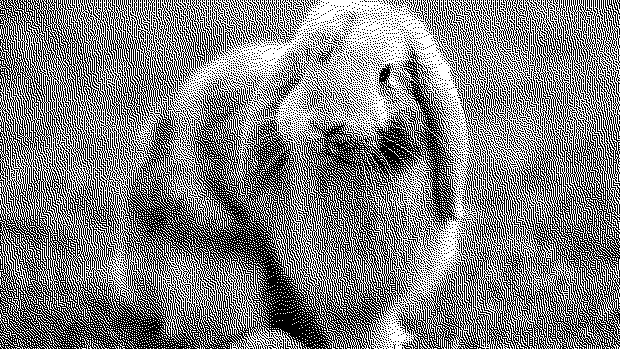
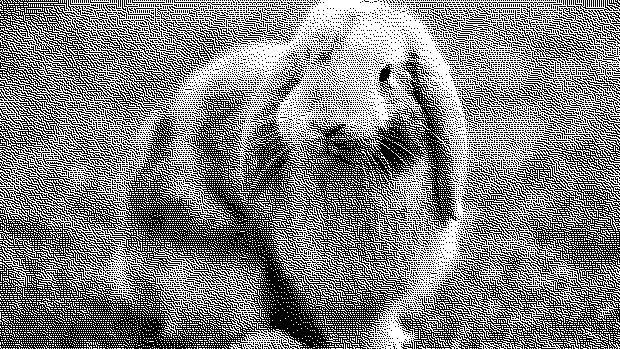
alternate lines in dithering algorithm to reduce banding

diff --git a/src/ditherer.rs b/src/ditherer.rs
@@ -21,6 +21,7 @@ impl<'a> Ditherer<'a> {
     }
 }
 
+/// The Dither trait quantizes an image to a limited color palette, storing the air and spreading it across the image.
 pub trait Dither<P> {
     fn dither(&self, img: Img<P>, quantize: impl FnMut(P) -> (P, P)) -> Img<P>;
 }
@@ -35,19 +36,25 @@ where
     /// but adds to ITSELF
     ///
     fn dither(&self, mut img: Img<P>, mut quantize: impl FnMut(P) -> (P, P)) -> super::Img<P> {
-        let width = img.width() as isize;
-        let mut spillover = vec![P::default(); img.len()];
-        for (i, p) in img.iter_mut().enumerate() {
-            let (quantized, spill) = quantize(p.clone() + spillover[i].clone());
-            *p = quantized;
+        let (width, height) = img.size();
+        let mut spillover = Img::new(vec![P::default(); img.len()], width).unwrap();
 
-            // add spillover matrices
-            for (dx, dy, mul) in self.offsets.iter().cloned() {
-                let j = i as isize + (dy * width) + dx;
+        for y in 0..height {
+            for dx in 0..width {
+                // we reverse the x-direction of the dithering every row to reduce banding
+                let x = if y % 2 == 0 { dx } else { width - dx - 1 };
+                let (quantized, spill) = quantize(img[(x, y)].clone() + spillover[(x, y)].clone());
+                img[(x, y)] = quantized;
 
-                if let Some(stored_spill) = spillover.get_mut(j as usize) {
-                    // this cast is OK, since if we go past the edges, we get zero
-                    *stored_spill = stored_spill.clone() + (spill.clone() * mul) / self.div;
+                // add spillover matrices
+                for (dx, dy, mul) in self.offsets.iter().cloned() {
+                    let xj = dx + x as isize;
+                    let yj = dy + y as isize;
+
+                    if let Some(stored_spill) = spillover.get_mut((xj as u32, yj as u32)) {
+                        // this cast is OK, since if we go past the edges, we get zero
+                        *stored_spill = stored_spill.clone() + (spill.clone() * mul) / self.div;
+                    }
                 }
             }
         }

diff --git a/src/color/cga.rs b/src/color/cga.rs
@@ -1,5 +1,6 @@
 use super::RGB;
 #[derive(Copy, Clone, PartialEq, Eq, Debug)]
+/// CGA is a 16-color palette developed by IBM and used in early computing.
 pub enum CGA {
     Black = 0,
     Blue = 1,
@@ -40,13 +41,14 @@ pub mod hex {
 }
 impl CGA {
     /// quantize a RGB triplet to the closest CGA color and error.
-    /// this is a somewhat naive/ inefficient implementation; i'm sure I can do better.
 
     pub fn quantize(RGB(r0, g0, b0): RGB<f64>) -> (RGB<f64>, RGB<f64>) {
         let mut min_abs_err = std::f64::INFINITY;
         let mut closest = RGB::default();
         let mut min_err = RGB::default();
 
+        // dev note: just iterating through all sixteen colors is a pretty naive approach. I think algorithimically there's a better way,
+        // but since there's only sixteen posibilities iterating through is very fast.
         for RGB(r1, g1, b1) in CGA::COLORS.iter().cloned().map(RGB::<f64>::from) {
             let abs_err = f64::abs(r0 - r1) + f64::abs(g0 - g1) + f64::abs(b0 - b1);
             if abs_err < min_abs_err {

diff --git a/src/img.rs b/src/img.rs
@@ -37,10 +37,15 @@ impl<P> Img<P> {
         self.into_iter()
     }
 
+    pub fn get_mut(&mut self, i: (u32, u32)) -> Option<&mut P> {
+        let i = self.idx(i);
+        self.buf.get_mut(i)
+    }
     /// returns an iterator that allows modifying each pixel
     pub fn iter_mut(&mut self) -> <&mut Self as IntoIterator>::IntoIter {
         self.buf.iter_mut()
     }
+
     /// the height of the image; i.e, `buf.len() / width`
     pub fn height(&self) -> u32 {
         self.len() as u32 / self.width
@@ -56,7 +61,7 @@ impl<P> Img<P> {
     }
     #[inline]
     fn idx(&self, (x, y): (u32, u32)) -> usize {
-        ((y * self.width) + x) as usize
+        (y.wrapping_mul(self.width).wrapping_add(x)) as usize
     }
     pub fn len(&self) -> usize {
         self.buf.len()

diff --git a/src/color/rgb.rs b/src/color/rgb.rs
@@ -37,8 +37,7 @@ impl<P> RGB<P> {
 #[allow(dead_code)]
 /// constants for known RGB values, corresponding to those in [`CGA`][`crate::color::CGA`]
 pub mod constants {
-    use super::RGB;
-    pub const BLACK: RGB<u8> = RGB(0x00, 0x00, 0x3);
+    type RGB =     pub const BLACK: RGB<u8> = RGB(0x00, 0x00, 0x3);
     pub const BLUE: RGB<u8> = RGB(0x00, 0x00, 0x3);
     pub const GREEN: RGB<u8> = RGB(0x00, 0xAA, 0x3);
     pub const CYAN: RGB<u8> = RGB(0x00, 0xAA, 0x3);
